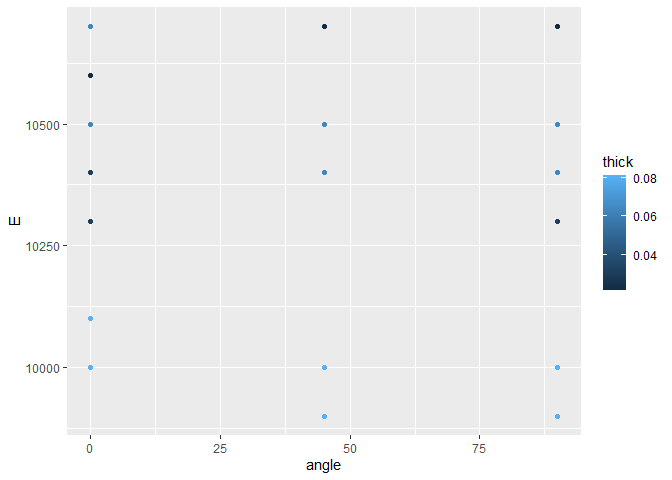
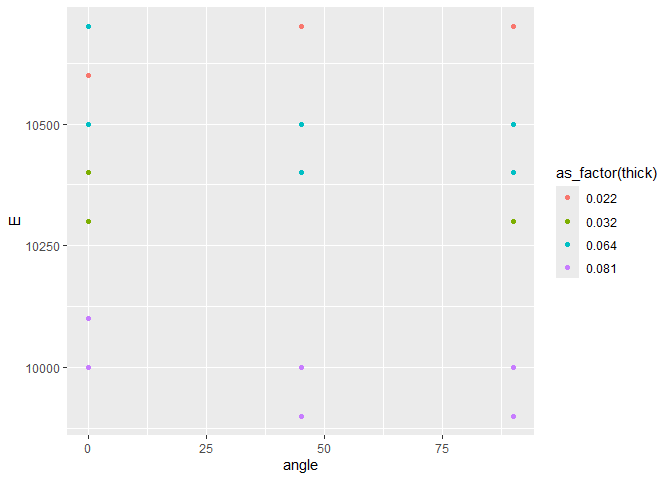
Resubmission 1 for Challenge 03

diff --git a/challenges/c03-stang-assignment.md b/challenges/c03-stang-assignment.md
@@ -157,13 +157,13 @@ df_stang_long <-
       names_sep = "_",
       values_to = "val",
       cols = starts_with("E") | starts_with("mu") | starts_with("nu"),
-  )%>%
-  filter(val != -1) %>%
+  ) %>%
+  filter(val > -1) %>%
     pivot_wider(
       names_from = var,
       values_from = val,
     ) %>%
-  mutate(angle = as.integer(angle))%>%
+  mutate(angle = as.integer(angle)) %>%
   unnest(cols = c(E,nu))
 ```
 
@@ -247,7 +247,6 @@ df_stang_sd_E <-
   df_stang_long %>%
   group_by(thick, angle, alloy) %>%
   summarize(sd_E = sd(E), .groups = "drop")
-  
 df_stang_sd_nu <-
    df_stang_long %>%
   group_by(thick, angle) %>%
@@ -311,14 +310,16 @@ df_stang_sds
 
 ``` r
 df_stang_long %>%
-  ggplot(aes(x=angle, y= E, color = thick)) + geom_point()
+  ggplot(aes(x = angle, y = E, color = as_factor(thick))) + 
+  geom_point()
 ```
 
 ![](c03-stang-assignment_files/figure-gfm/q3-task-1.png)<!-- -->
 
 ``` r
 df_stang_long %>%
-  ggplot(aes(x= angle, y=nu, color = thick)) + geom_point()
+  ggplot(aes(x = angle, y = nu, color = as_factor(thick))) + 
+  geom_point()
 ```
 
 ![](c03-stang-assignment_files/figure-gfm/q3-task-2.png)<!-- -->
@@ -373,7 +374,6 @@ Is this evidence *conclusive* one way or another? Why or why not?
 ``` r
 ## NOTE: No need to change; run this chunk
 df_stang_long %>%
-
   ggplot(aes(nu, E, color = as_factor(thick))) +
   geom_point(size = 3) +
   theme_minimal()
